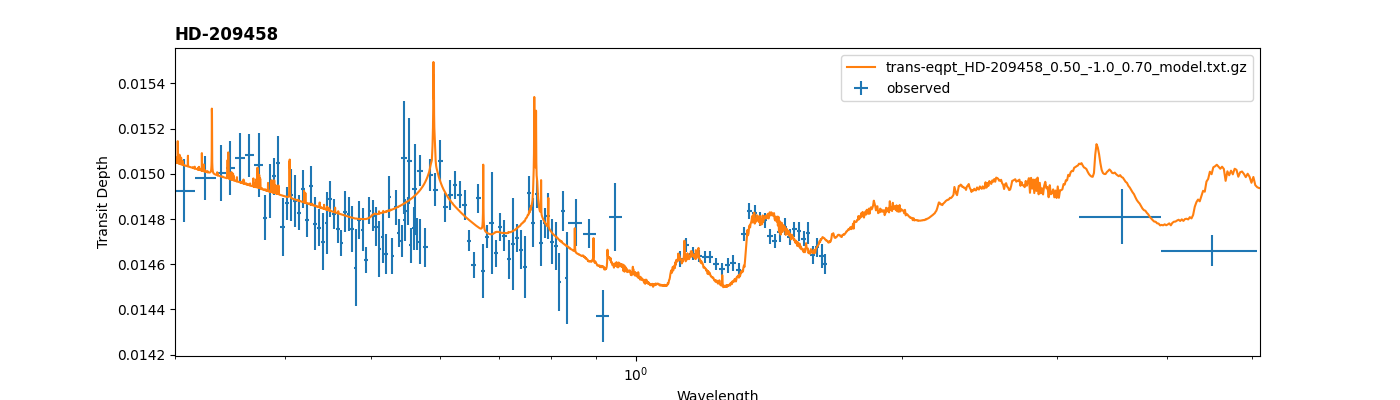
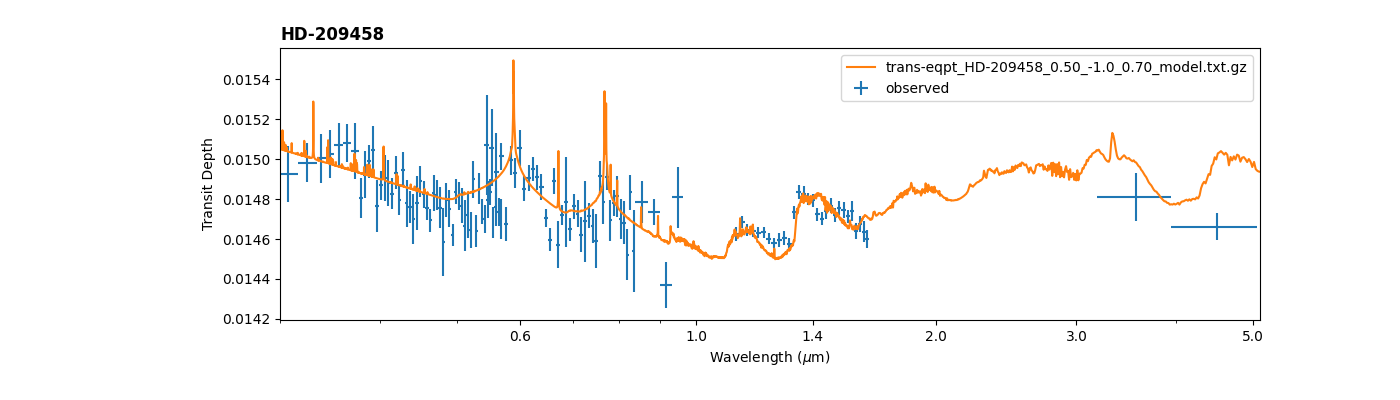
plotting

diff --git a/SCgrid_fit_JY.py b/SCgrid_fit_JY.py
@@ -11,11 +11,9 @@ import scipy.stats
 
 import glob 
 
-from matplotlib import gridspec, rc, font_manager
-import matplotlib as mpl
+import matplotlib
 import matplotlib.pyplot as plt
-import matplotlib.cm as cm
-import matplotlib.gridspec as grid
+
 
 '''
 What needs to be read in 
@@ -58,11 +56,6 @@ def model_to_data(p0, data, data_err, model):
 	model_fit = model + p0[0]
 	return np.sum((model_fit-data)**2/data_err**2)
 
-def find_nearest(array, value):
-    array = np.asarray(array)
-    idx = (np.abs(array - value)).argmin()
-    return idx
-
 def get_bin_widths(values, val_min=None, val_max=None):
     '''
     Find the difference between the midpoints of each consecutive value in `values`. If no upper or lower bound is given, the midpoint between element 0 and 1 will be assumed symmetrical. This is also true for element -1 and -2.
@@ -72,7 +65,7 @@ def get_bin_widths(values, val_min=None, val_max=None):
     - `values`: 1D ndarray of values of which the 'width' is to be determined.
     - `val_min`: lower limit - if the symmetric midpoint for the first or last element is less than this, `val_min` will be used instead to find the width.
     - `val_max`: upper limit - if the symmetric midpoint for the first or last element is greater than this, `val_max` will be used instead to find the width.
-    -----
+	-----
     ## Returns
     - `dx_values`: 1D ndarray of widths for every element in `values`.
     '''
@@ -94,8 +87,9 @@ planet_recirc = []
 planet_metal = []
 planet_co = []
 model_chi = np.array([])
+'''chi squared'''
 model_alt = np.array([])
-
+'''added constant'''
 
 
 '''
@@ -109,12 +103,9 @@ for model_file in full_grid:
 	planet_metal.append(split_file[3])
 	planet_co.append(split_file[4])
 	print('--------------------------------------|', filenum)
-	
 	print('Recirc= ', planet_recirc[-1], 'M/H= ', planet_metal[-1], ' C/O= ', planet_co[-1])
 
-	grid_point = os.path.join(model_files_loc, f'trans-eqpt_{planet_name}_{planet_recirc[-1]}_{planet_metal[-1]}_{planet_co[-1]}_model.txt.gz')
-
-	model = np.loadtxt(grid_point, dtype=float)
+	model = np.loadtxt(model_file, dtype=float)
 	planet_model_wav = model[:,0]
 	planet_model = model[:,1]
 
@@ -143,49 +134,65 @@ planet_co = np.array(planet_co).astype(float)
 planet_recirc_dx = get_bin_widths(np.sort(np.unique(planet_recirc))) #find dx values for the model parameters using get_bin_widths
 planet_metal_dx = get_bin_widths(np.sort(np.unique(planet_metal)))
 planet_co_dx = get_bin_widths(np.sort(np.unique(planet_co)))
-
+print(np.unique(planet_metal))
 #print("dx values: ", planet_recirc_dx, planet_metal_dx, planet_co_dx)
 
 # --- probabilites --- 
 print('--------------------------------------')
-max_liklihood = np.amax(model_chi * (-0.5))
+max_likelihood = np.amax(model_chi * (-0.5))
 
 a = 0
 for i, chi in np.ndenumerate(model_chi):
 	i=i[0]
 	model_evidence = - (chi / 2.0)
-	beta_value = model_evidence - max_liklihood
+	beta_value = model_evidence - max_likelihood
 	tot_evidence = np.exp(beta_value) * bin_width(i, planet_recirc_dx, planet_recirc) * bin_width(i, planet_metal_dx, planet_metal) * bin_width(i, planet_co_dx, planet_co)
 	a += tot_evidence
 
 #print(a)
-log_norm_grid = np.log10(a) + max_liklihood
-				
+log_norm_grid = np.log10(a) + max_likelihood
+
 norm_prob_density = [np.exp(-0.5 * chi - log_norm_grid) for chi in model_chi]
 norm_prob = [norm_prob_density[i] * bin_width(i, planet_recirc_dx, planet_recirc) * bin_width(i, planet_metal_dx, planet_metal) * bin_width(i, planet_co_dx, planet_co) for i in range(len(norm_prob_density))]
 
 min_index = np.argmin(norm_prob_density)
 max_index = np.argmax(norm_prob_density)
-print('MIN: Recirc=', planet_recirc[min_index], ' M/H=', planet_metal[min_index], ' C/O=', planet_co[min_index], np.amin(norm_prob_density), '\nMAX: Recirc=', planet_recirc[max_index], ' M/H=', planet_metal[max_index], ' C/O=', planet_co[max_index], np.amax(norm_prob_density))
+print('MIN: Recirc=', planet_recirc[min_index], ' M/H=', planet_metal[min_index], ' C/O=', planet_co[min_index], np.amin(norm_prob), '\nMAX: Recirc=', planet_recirc[max_index], ' M/H=', planet_metal[max_index], ' C/O=', planet_co[max_index], np.amax(norm_prob))
 print(np.sum(norm_prob))
 
 # --- plot & save ---
+
+# find models >=0.1 confidence
+delta_chi2_max = 100
+likely_models = np.array([[], []])
+num_likely=-1
+for i in np.where(model_chi - np.amin(model_chi)<=delta_chi2_max)[0]:
+	num_likely += 1
+	grid_point = os.path.join(model_files_loc, f'trans-eqpt_{planet_name}_{planet_recirc[i]:.2f}_{planet_metal[i]:+.1f}_{planet_co[i]:.2f}_model.txt.gz')
+	model = np.loadtxt(grid_point, dtype=float)
+	likely_models = np.append(likely_models, [model[:,0], model[:,1]+model_alt[i]], axis=1)
+	
 # Find file corresponding to max(norm_prob_density)
-grid_point = os.path.join(model_files_loc, f'trans-eqpt_{planet_name}_{planet_recirc[max_index]:.2f}_{planet_metal[max_index]:.1f}_{planet_co[max_index]:.2f}_model.txt.gz')
+grid_point = os.path.join(model_files_loc, f'trans-eqpt_{planet_name}_{planet_recirc[max_index]:.2f}_{planet_metal[max_index]:+.1f}_{planet_co[max_index]:.2f}_model.txt.gz')
 model = np.loadtxt(grid_point, dtype=float) 
 model_wavelengths = model[:,0]
 model_transit_depths = model[:,1]
 
-fig, ax = plt.subplots(figsize=(14, 4))
+fig, ax = plt.subplots(figsize=(14, 6))
 
-plt.errorbar(data_wav, data_depth, xerr=data_waverr, yerr=data_deptherr, ls='None')
+plt.plot(likely_models[0,:], likely_models[1,:], color='C7', lw=0.5)
+plt.plot(model_wavelengths,np.array(model_transit_depths)+model_alt[max_index], color='C1')
+plt.errorbar(data_wav, data_depth, xerr=data_waverr, yerr=data_deptherr, ls='None', color='C0')
+
 plt.xlim(0.3,5.1)
-plt.plot(model_wavelengths,np.array(model_transit_depths)+model_alt[max_index])
+plt.subplots_adjust(left=0.2, bottom=0.2)
 plt.xscale('log')
-
-plt.xlabel('Wavelength')
+majorLocator = matplotlib.pyplot.FixedLocator([0.2,0.6,1.0,1.4,2,3,5,8,12])
+ax.xaxis.set_major_locator(majorLocator)
+ax.xaxis.set_major_formatter(matplotlib.ticker.ScalarFormatter())
+plt.xlabel('Wavelength ($\mu$m)')
 plt.ylabel('Transit Depth')
-plt.legend([f'trans-eqpt_{planet_name}_{planet_recirc[max_index]:.2f}_{planet_metal[max_index]:.1f}_{planet_co[max_index]:.2f}_model.txt.gz', 'observed'])
+plt.legend([f'{num_likely} additional models within $\Delta\chi^2$ {delta_chi2_max}', f'trans-eqpt_{planet_name}_{planet_recirc[max_index]:.2f}_{planet_metal[max_index]:+.1f}_{planet_co[max_index]:.2f}_model.txt.gz', 'observed'])
 plt.title(planet_name, loc='left', weight='bold')
 plt.show()
 

diff --git a/SCgrid_fit_JY.md b/SCgrid_fit_JY.md
@@ -3,7 +3,7 @@
 
 ## Main Change: Grid Organisation
 
-In each of the grids, a large number of models are generated from a set of varying parameters. In the Planet Specific Grid, there were 5 parameters, each witha few values they could take. Every combination of values had a model. Thus, the approach of the Planet Specific Grid fit was as follows:
+In each of the grids, a large number of models are generated from a set of varying parameters. In the Planet Specific Grid, there were 5 parameters, each with a few values they could take. Every combination of values had a model. Thus, the approach of the Planet Specific Grid fit was as follows:
 
 - Iterate through all the files in the folder of models. Record the filenames.
 - The filenames have a specific nomenclature, so the model parameters are written in order separated by underscores. This means the program can extract all the different parameters from every file, leaving it with 5 lists of values used in the model.
@@ -26,7 +26,7 @@ However, in the Self Consistent Grid not every combination of model parameters i
 |0.25|1.0|0.35|
 |...|...|...|
 
-Therefore, the method that [Self Consistent Grid fit](/SCgrid_fit_JY.py) must differ from the Planet Specific Grid fit program. In PS Grid fit, arrays are initilised before the loop runs for storing the data and $\chi^2$ values. In these arrays there is an axis for each parameter. If this same approach is used for the SC Grid it would end up with many black spaces and would be confusing and cumbersome.
+Therefore, the method that [Self Consistent Grid fit](/SCgrid_fit_JY.py) must differ from the Planet Specific Grid fit program. In PS Grid fit, arrays are initilised before the loop runs for storing the data and $\chi^2$ values. In these arrays there is an axis for each parameter. If this same approach is used for the SC Grid it would end up with many blank spaces and would be confusing and cumbersome.
 
 Instead, [Self Consistent Grid fit](/SCgrid_fit_JY.py) determines $\chi^2$ as it iterates through the files for the first time and then later deals with the parameters from the model filenames. This is an overview of the approach:
 
